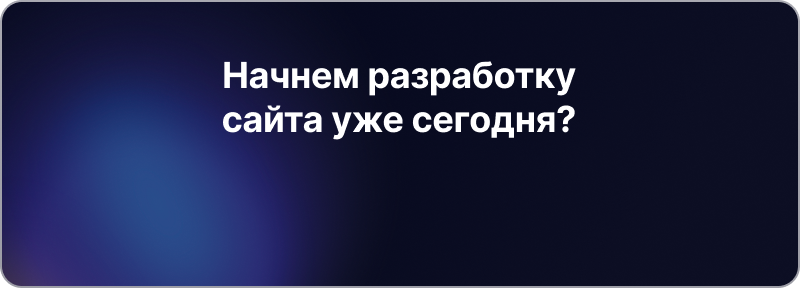
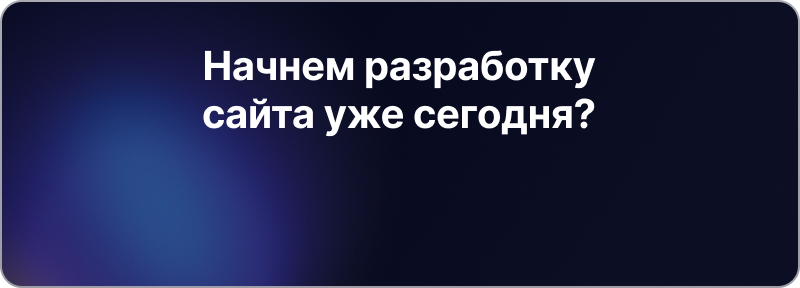
fix(advantages): fix responsive layout

Changed region(s): [[0.25, 0.1562, 0.75, 0.5]]

diff --git a/src/widgets/advantages/ui/Advantages.tsx b/src/widgets/advantages/ui/Advantages.tsx
@@ -1,12 +1,18 @@
 import styled from 'styled-components'
 import { AnimatedSection } from '../../../shared/ui/AnimatedSection'
 import macbook from '../../../assets/macbook.png'
+import macbookAd from '../../../assets/macbook-ad.png'
 import countries from '../../../assets/countries.png'
+import countriesAd from '../../../assets/countries-ad.png'
 import stack from '../../../assets/stack.png'
+import stackAd from '../../../assets/stack-ad.png'
 import gridPattern from '../../../assets/grid-pattern.png'
 import development from '../../../assets/development.png'
+import developmentAd from '../../../assets/development-ad.png'
 import button from '../../../assets/button.png'
+import buttonAd from '../../../assets/button-ad.png'
 import code from '../../../assets/code.png'
+import codeAd from '../../../assets/code-ad.png'
 import bg from '../../../assets/bg.png'
 
 
@@ -85,7 +91,9 @@ const Container = styled.div`
     width: 100%;
     grid-template-columns: 1fr;
     row-gap: 24px;
+    padding: 0 16px;
     & > * { margin: 0; }
+    justify-items: stretch;
   }
 `
 
@@ -117,8 +125,8 @@ const Left = styled.div`
   }
 
   @media (max-width: 800px) {
-    width: calc(100% - 32px);
-    margin: 0 16px;
+    width: 100%;
+    margin: 0;
     
     img {
       width: 100% !important;
@@ -148,7 +156,7 @@ const Right = styled.div`
     order: 2;
     width: 100%;
     row-gap: 24px;
-    justify-items: center;
+    justify-items: stretch;
   }
 `
 
@@ -174,8 +182,8 @@ const Card = styled.div`
   }
 
   @media (max-width: 800px) {
-    width: calc(100% - 32px);
-    margin: 0 16px;
+    width: 100%;
+    margin: 0;
     
     img {
       width: 100% !important;
@@ -230,6 +238,8 @@ const Row2 = styled.div`
     width: 100%;
     grid-template-columns: 1fr;
     row-gap: 24px;
+    padding: 0 16px;
+    justify-items: stretch;
   }
 `
 
@@ -241,7 +251,7 @@ const Left2 = styled.div`
   @media (max-width: 800px) {
     order: 2;
     row-gap: 24px;
-    justify-items: center;
+    justify-items: stretch;
   }
 `
 
@@ -252,6 +262,10 @@ const Right2 = styled.div`
     order: 1;
     display: flex;
     justify-content: center;
+  }
+
+  @media (max-width: 800px) and (min-width: 500px) {
+    width: 100%;
   }
 `
 
@@ -282,8 +296,8 @@ const DevCard = styled.div`
   }
 
   @media (max-width: 800px) {
-    width: calc(100% - 32px);
-    margin: 0 16px;
+    width: 100%;
+    margin: 0;
     
     img {
       width: 100% !important;
@@ -327,8 +341,8 @@ const BtnCard = styled.div`
   }
 
   @media (max-width: 800px) {
-    width: calc(100% - 32px);
-    margin: 0 16px;
+    width: 100%;
+    margin: 0;
     
     img {
       width: 100% !important;
@@ -477,8 +491,8 @@ const CodeCard = styled.div`
   }
 
   @media (max-width: 800px) {
-    width: calc(100% - 32px);
-    margin: 0 16px;
+    width: 100%;
+    margin: 0;
     
     img {
       width: 100% !important;
@@ -545,11 +559,14 @@ export function Advantages() {
           <Container>
             <AnimatedSection animationType="fadeInLeft" delay={200}>
               <Left>
-                <img
-                  src={macbook}
-                  alt="Macbook"
-                  style={{ width: '100%', height: 'auto' }}
-                />
+                <picture>
+                  <source media="(max-width: 800px)" srcSet={macbookAd} />
+                  <img
+                    src={macbook}
+                    alt="Macbook"
+                    style={{ width: '100%', height: 'auto' }}
+                  />
+                </picture>
                 <MacbookOverlay data-macbook-overlay>
                   
                 </MacbookOverlay>
@@ -559,11 +576,14 @@ export function Advantages() {
               <Right>
                 <AnimatedSection animationType="fadeInScale" delay={600}>
                   <Card>
-                    <img
-                      src={countries}
-                      alt="Countries"
-                      style={{ width: '100%', height: 'auto' }}
-                    />
+                    <picture>
+                      <source media="(max-width: 800px)" srcSet={countriesAd} />
+                      <img
+                        src={countries}
+                        alt="Countries"
+                        style={{ width: '100%', height: 'auto' }}
+                      />
+                    </picture>
                     <CountriesOverlay data-countries-overlay>
                       
                     </CountriesOverlay>
@@ -571,11 +591,14 @@ export function Advantages() {
                 </AnimatedSection>
                 <AnimatedSection animationType="fadeInScale" delay={800}>
                   <Card>
-                    <img
-                      src={stack}
-                      alt="Stack"
-                      style={{ width: '100%', height: 'auto' }}
-                    />
+                    <picture>
+                      <source media="(max-width: 800px)" srcSet={stackAd} />
+                      <img
+                        src={stack}
+                        alt="Stack"
+                        style={{ width: '100%', height: 'auto' }}
+                      />
+                    </picture>
                     <StackOverlay>
                       <StackOverlayInner data-stack-overlay-inner>
                         <StackSubtitle>
@@ -598,11 +621,14 @@ export function Advantages() {
               <Left2>
                 <AnimatedSection animationType="fadeInScale" delay={600}>
                   <DevCard>
-                    <img
-                      src={development}
-                      alt="Development"
-                      style={{ width: '100%', height: 'auto' }}
-                    />
+                    <picture>
+                      <source media="(max-width: 800px)" srcSet={developmentAd} />
+                      <img
+                        src={development}
+                        alt="Development"
+                        style={{ width: '100%', height: 'auto' }}
+                      />
+                    </picture>
                     <DevOverlay data-dev-overlay>
                       
                     </DevOverlay>
@@ -610,11 +636,14 @@ export function Advantages() {
                 </AnimatedSection>
                 <AnimatedSection animationType="fadeInScale" delay={800}>
                   <BtnCard>
-                    <img
-                      src={button}
-                      alt="Button"
-                      style={{ width: '100%', height: 'auto' }}
-                    />
+                    <picture>
+                      <source media="(max-width: 800px)" srcSet={buttonAd} />
+                      <img
+                        src={button}
+                        alt="Button"
+                        style={{ width: '100%', height: 'auto' }}
+                      />
+                    </picture>
                     <BtnOverlay>
                       <BtnOverlayInner data-button-overlay-inner>
                         <BtnOverlayText></BtnOverlayText>
@@ -629,11 +658,14 @@ export function Advantages() {
               <Right2>
                 <AnimatedSection animationType="fadeInScale" delay={800}>
                   <CodeCard>
-                    <img
-                      src={code}
-                      alt="Code"
-                      style={{ width: '100%', height: 'auto' }}
-                    />
+                    <picture>
+                      <source media="(max-width: 800px)" srcSet={codeAd} />
+                      <img
+                        src={code}
+                        alt="Code"
+                        style={{ width: '100%', height: 'auto' }}
+                      />
+                    </picture>
                     <CodeOverlay>
                       <CodeOverlayInner data-code-overlay-inner>
                         <CodeTitle></CodeTitle>
